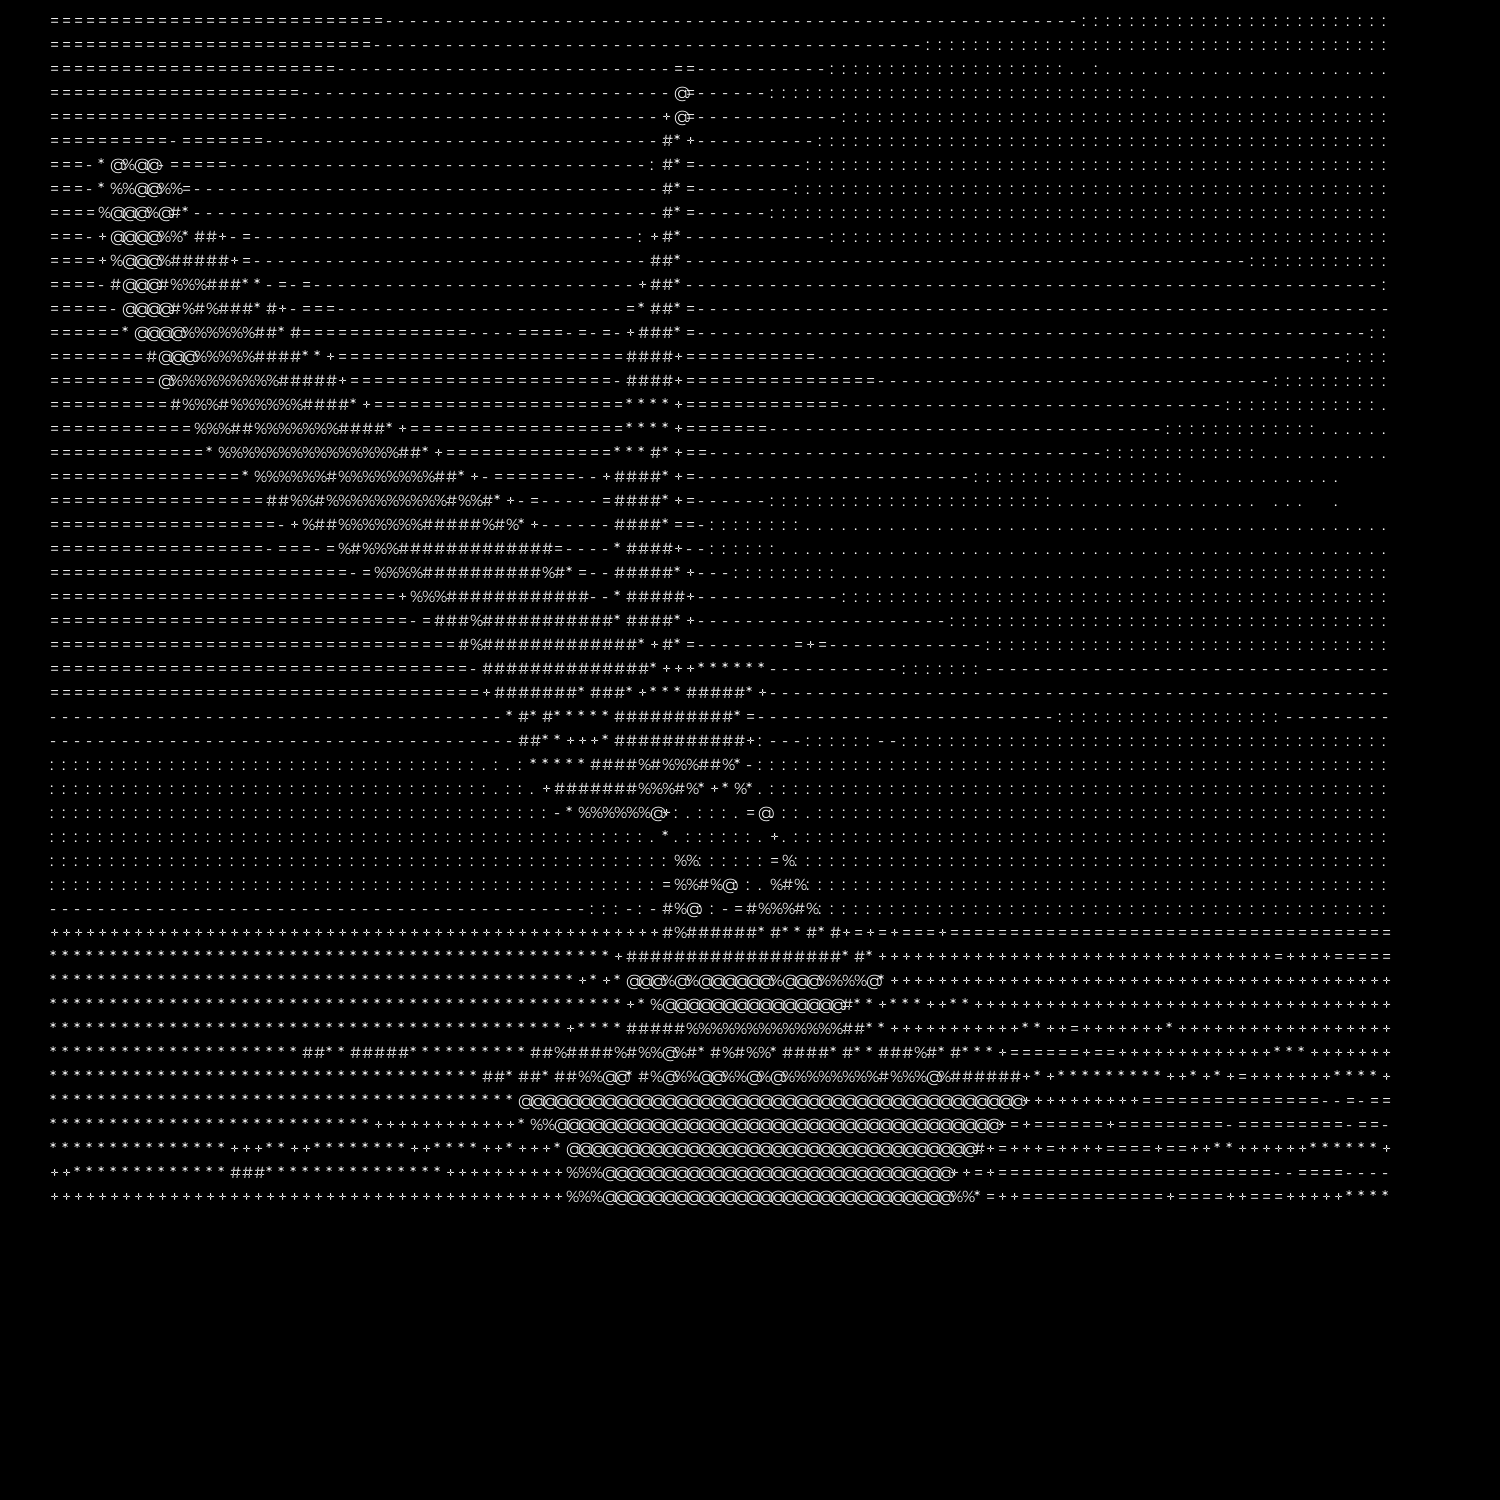
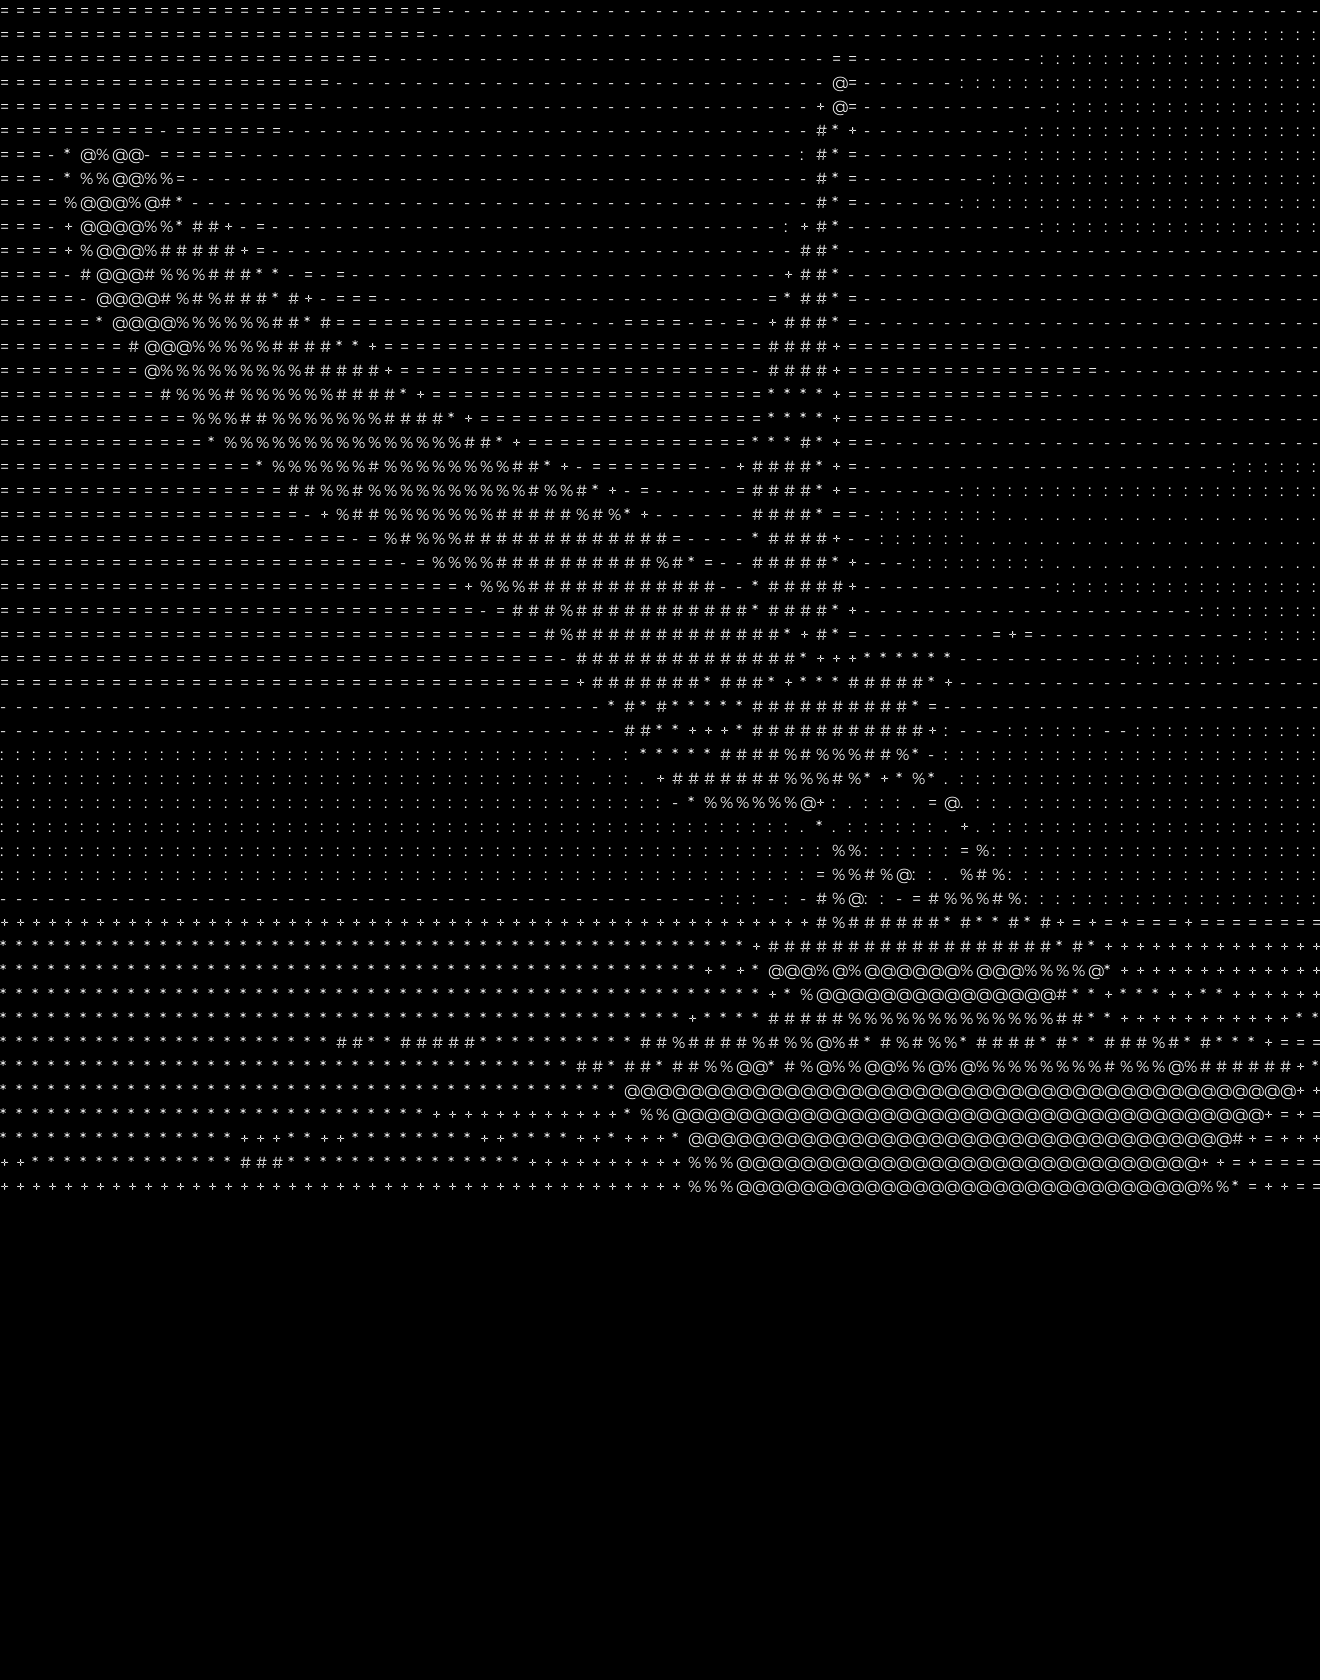
Refactor image scaling in img2ascii package

diff --git a/pkg/img2ascii/image.go b/pkg/img2ascii/image.go
@@ -24,6 +24,7 @@ const (
 func ConvertToPNG(text string, width, height int) ([]byte, error) {
 	fgColor := color.RGBA{255, 255, 255, 255}
 	bgColor := color.RGBA{0, 0, 0, 255}
+	width = width + 20
 	fg := image.NewUniform(fgColor)
 	bg := image.NewUniform(bgColor)
 	fontPath, err := filepath.Abs("./assets/fonts/Montserrat-Regular.ttf")
@@ -39,7 +40,7 @@ func ConvertToPNG(text string, width, height int) ([]byte, error) {
 	}
 	// print width, height as struct
 
-	img := image.NewRGBA(image.Rect(0, 0, width*10, height*10))
+	img := image.NewRGBA(image.Rect(0, 0, width*10, height*15))
 	ctx := freetype.NewContext()
 	draw.Draw(img, img.Bounds(), bg, image.Pt(0, 0), draw.Src)
 
@@ -56,8 +57,8 @@ func ConvertToPNG(text string, width, height int) ([]byte, error) {
 	ctx.SetDst(img)
 	ctx.SetSrc(fg)
 	ctx.SetHinting(font.HintingNone)
-	textXOffset := 50
-	textYOffset := 10 + int(ctx.PointToFixed(fontSize)>>6)
+	textXOffset := 0
+	textYOffset := int(ctx.PointToFixed(fontSize) >> 6)
 
 	pt := freetype.Pt(textXOffset, textYOffset)
 	textSplitted := strings.Split(text, "\n")
@@ -68,7 +69,7 @@ func ConvertToPNG(text string, width, height int) ([]byte, error) {
 			if err != nil {
 				return nil, err
 			}
-			pt.X += ctx.PointToFixed(12)
+			pt.X += ctx.PointToFixed(fontSize)
 		}
 		pt.X = initialX
 		pt.Y += ctx.PointToFixed(fontSize * 1.5)

diff --git a/pkg/img2ascii/converter.go b/pkg/img2ascii/converter.go
@@ -56,6 +56,14 @@ func (c AsciiConverter) GetHeight() int {
 	return c.Height
 }
 
+func (c AsciiConverter) GetScale() float64 {
+	return c.Scale
+}
+
+func (c AsciiConverter) GetScaledDims() (int, int) {
+	return int(float64(c.Width) * c.Scale), int(float64(c.Height) * c.Scale)
+}
+
 func (c *AsciiConverter) WithScale(scale float64) *AsciiConverter {
 	c.Scale = scale
 	return c

diff --git a/cmd/ascii.go b/cmd/ascii.go
@@ -66,7 +66,8 @@ var asciiCmd = &cobra.Command{
 			}
 			file.WriteString(outputStr)
 		case ".png":
-			imgBytes, err := img2ascii.ConvertToPNG(outputStr, converter.GetWidth(), converter.GetHeight())
+			width, height := converter.GetScaledDims()
+			imgBytes, err := img2ascii.ConvertToPNG(outputStr, width, height)
 			if err != nil {
 				fmt.Println(err)
 				os.Exit(1)
